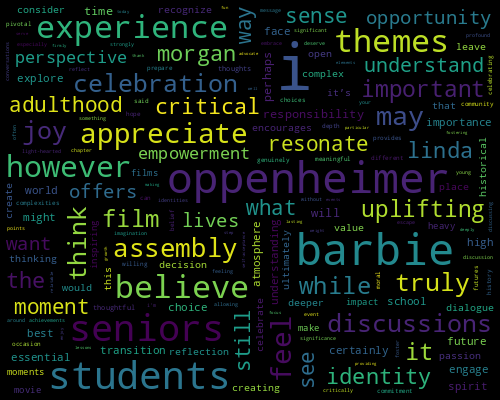
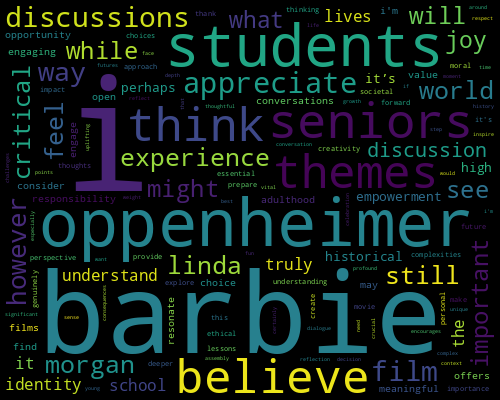
Removed font size limits, now uses entire DF directory.

diff --git a/generate_wordcloud.py b/generate_wordcloud.py
@@ -58,8 +58,9 @@ class freqencyDict():
     def generate_config_wordcloud(self, config):
         self.display_dict(self.config_dict)
         wc = WordCloud(width=500, height=400, margin=10, random_state=1, max_words=1000)
-        wc.generate_from_frequencies(self.config_dict, max_font_size=64)
+        wc.generate_from_frequencies(self.config_dict)
 
+        plt.get_current_fig_manager().set_window_title(f"Wordcloud for config: {config}")
         plt.imshow(wc, interpolation='bilinear')
         plt.axis("off")
         plt.show()
@@ -71,9 +72,11 @@ class freqencyDict():
         wc = WordCloud(width=500, height=400, margin=10, random_state=1, max_words=1000)
         wc.generate_from_frequencies(self.full_dict)
 
+        plt.get_current_fig_manager().set_window_title("Summary Wordcloud")
         plt.imshow(wc, interpolation='bilinear')
         plt.axis("off")
         plt.show()
+
         path = f"./wordclouds/FULL.png"
         wc.to_file(path)
 
@@ -161,7 +164,7 @@ def main():
                 print(message)
 
             # we only do this once for testing reasons
-            break
+            #break
 
         frequency_manager.generate_config_wordcloud(config)
     frequency_manager.generate_full_wordcloud()
